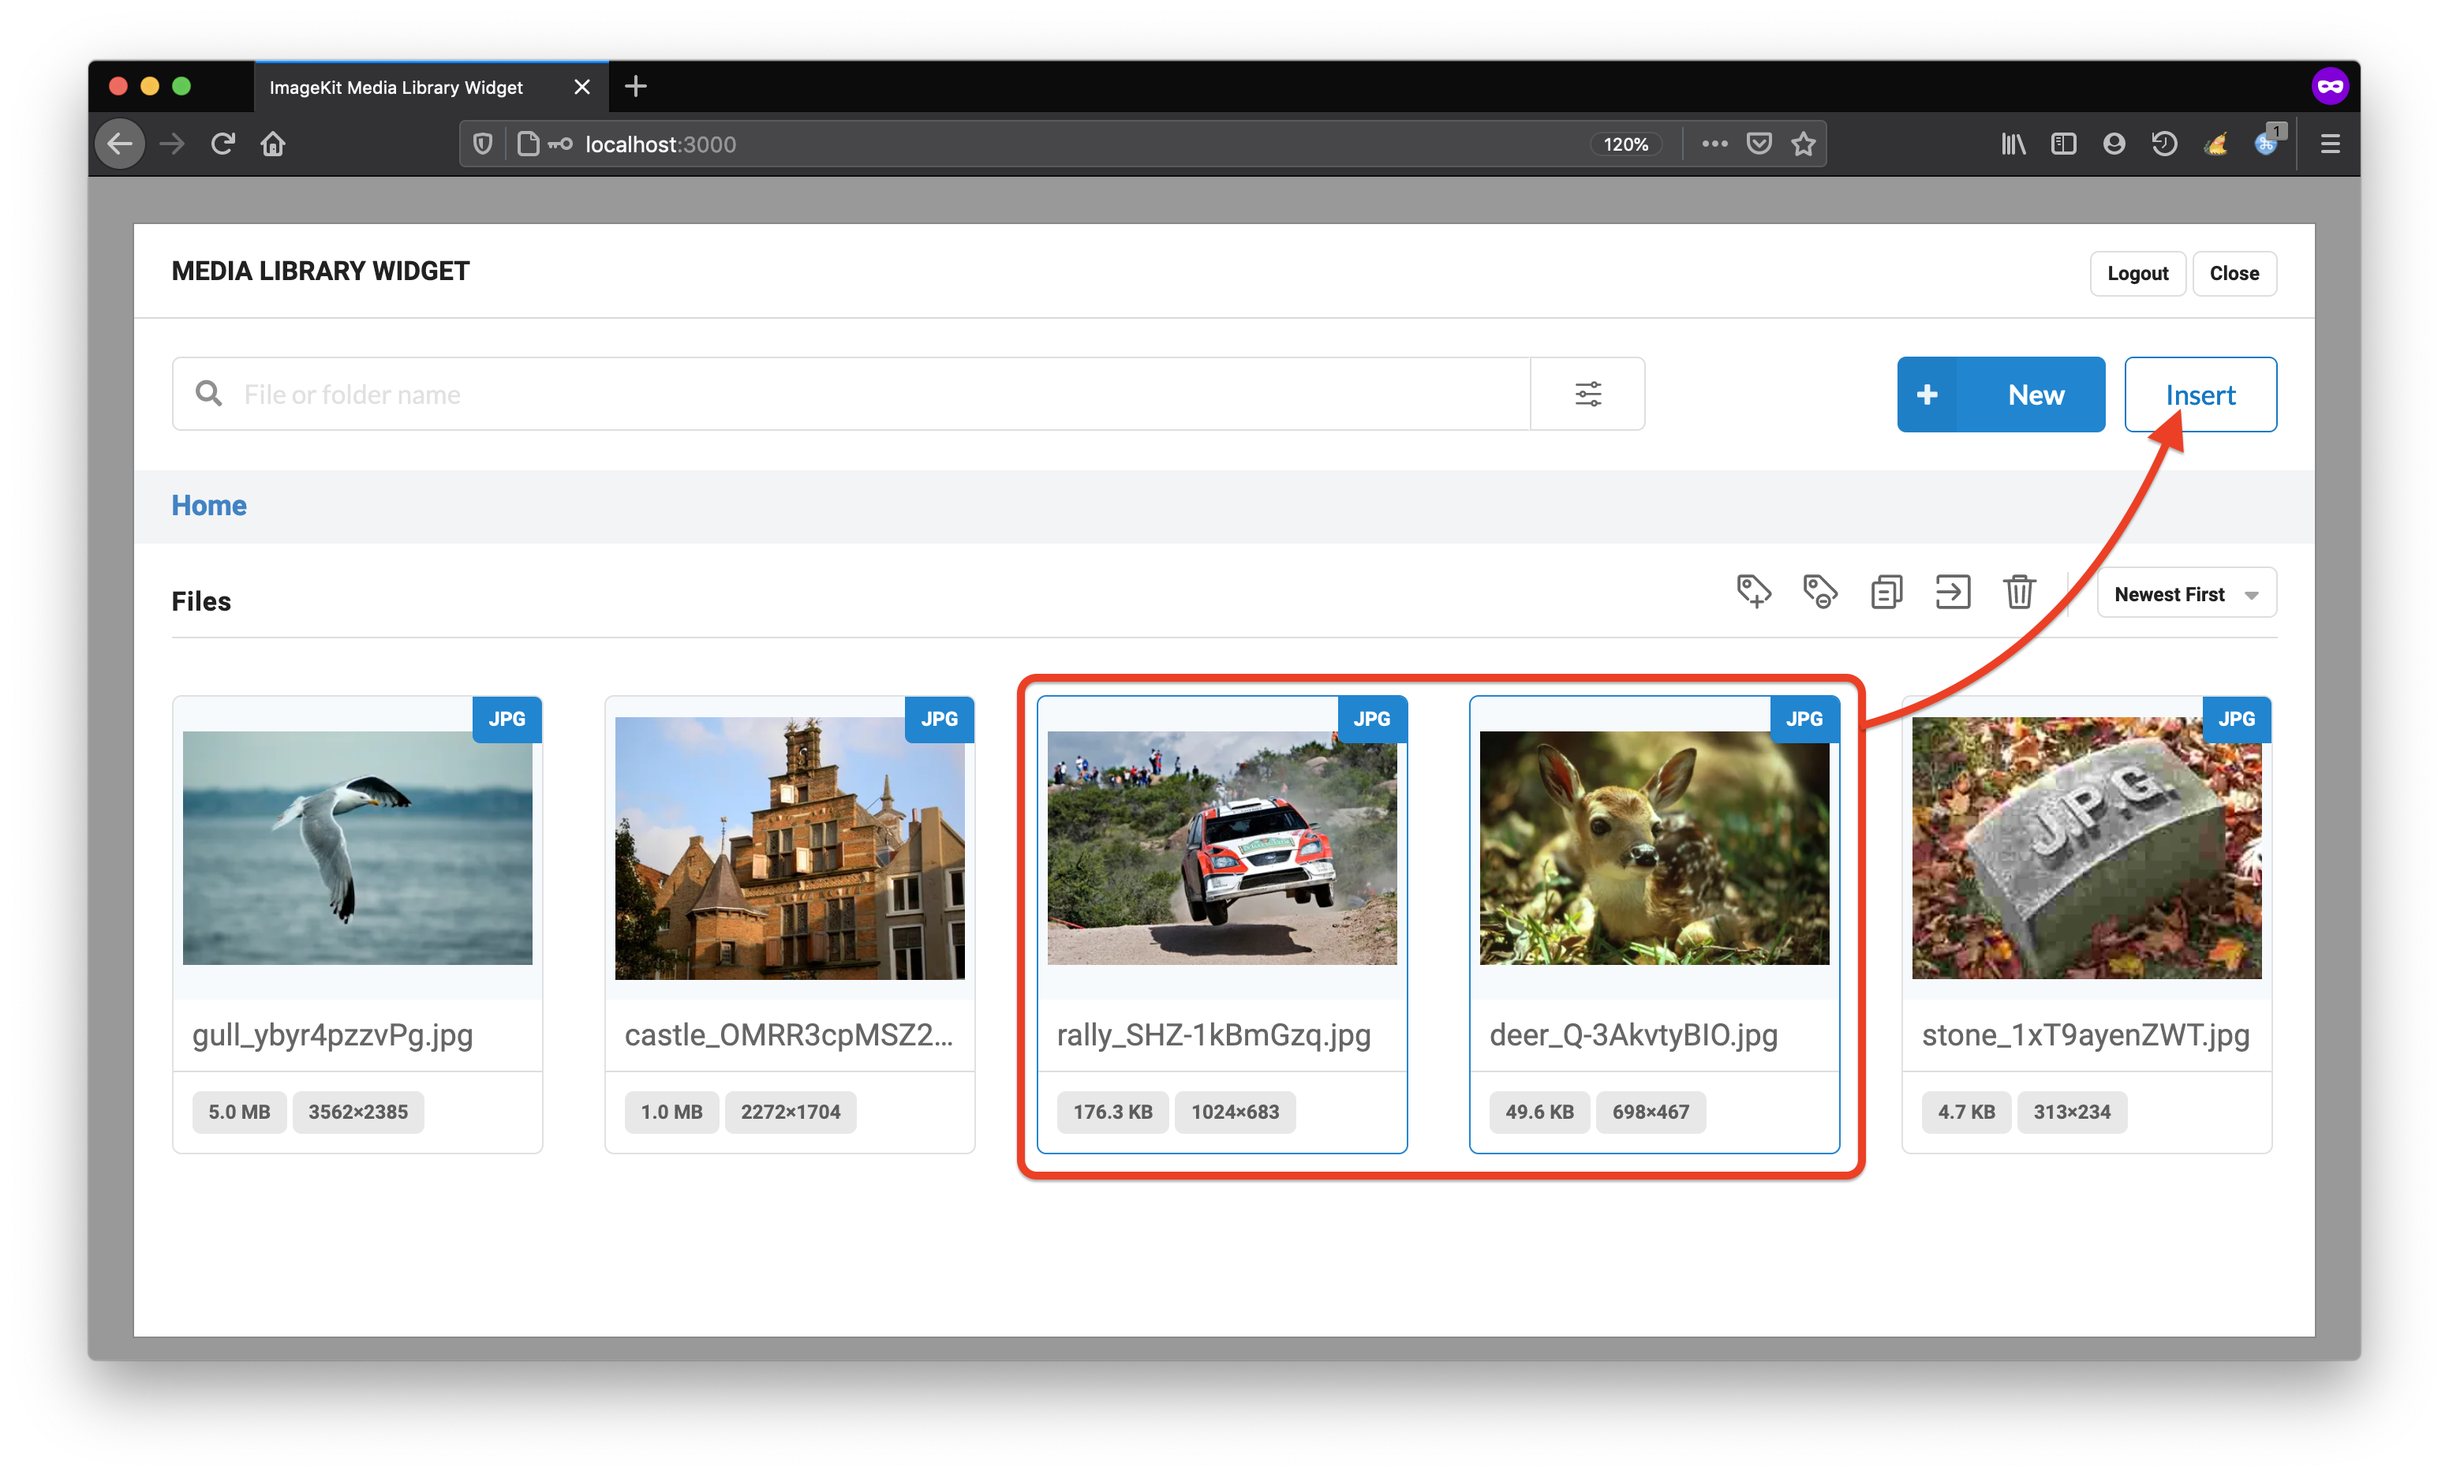
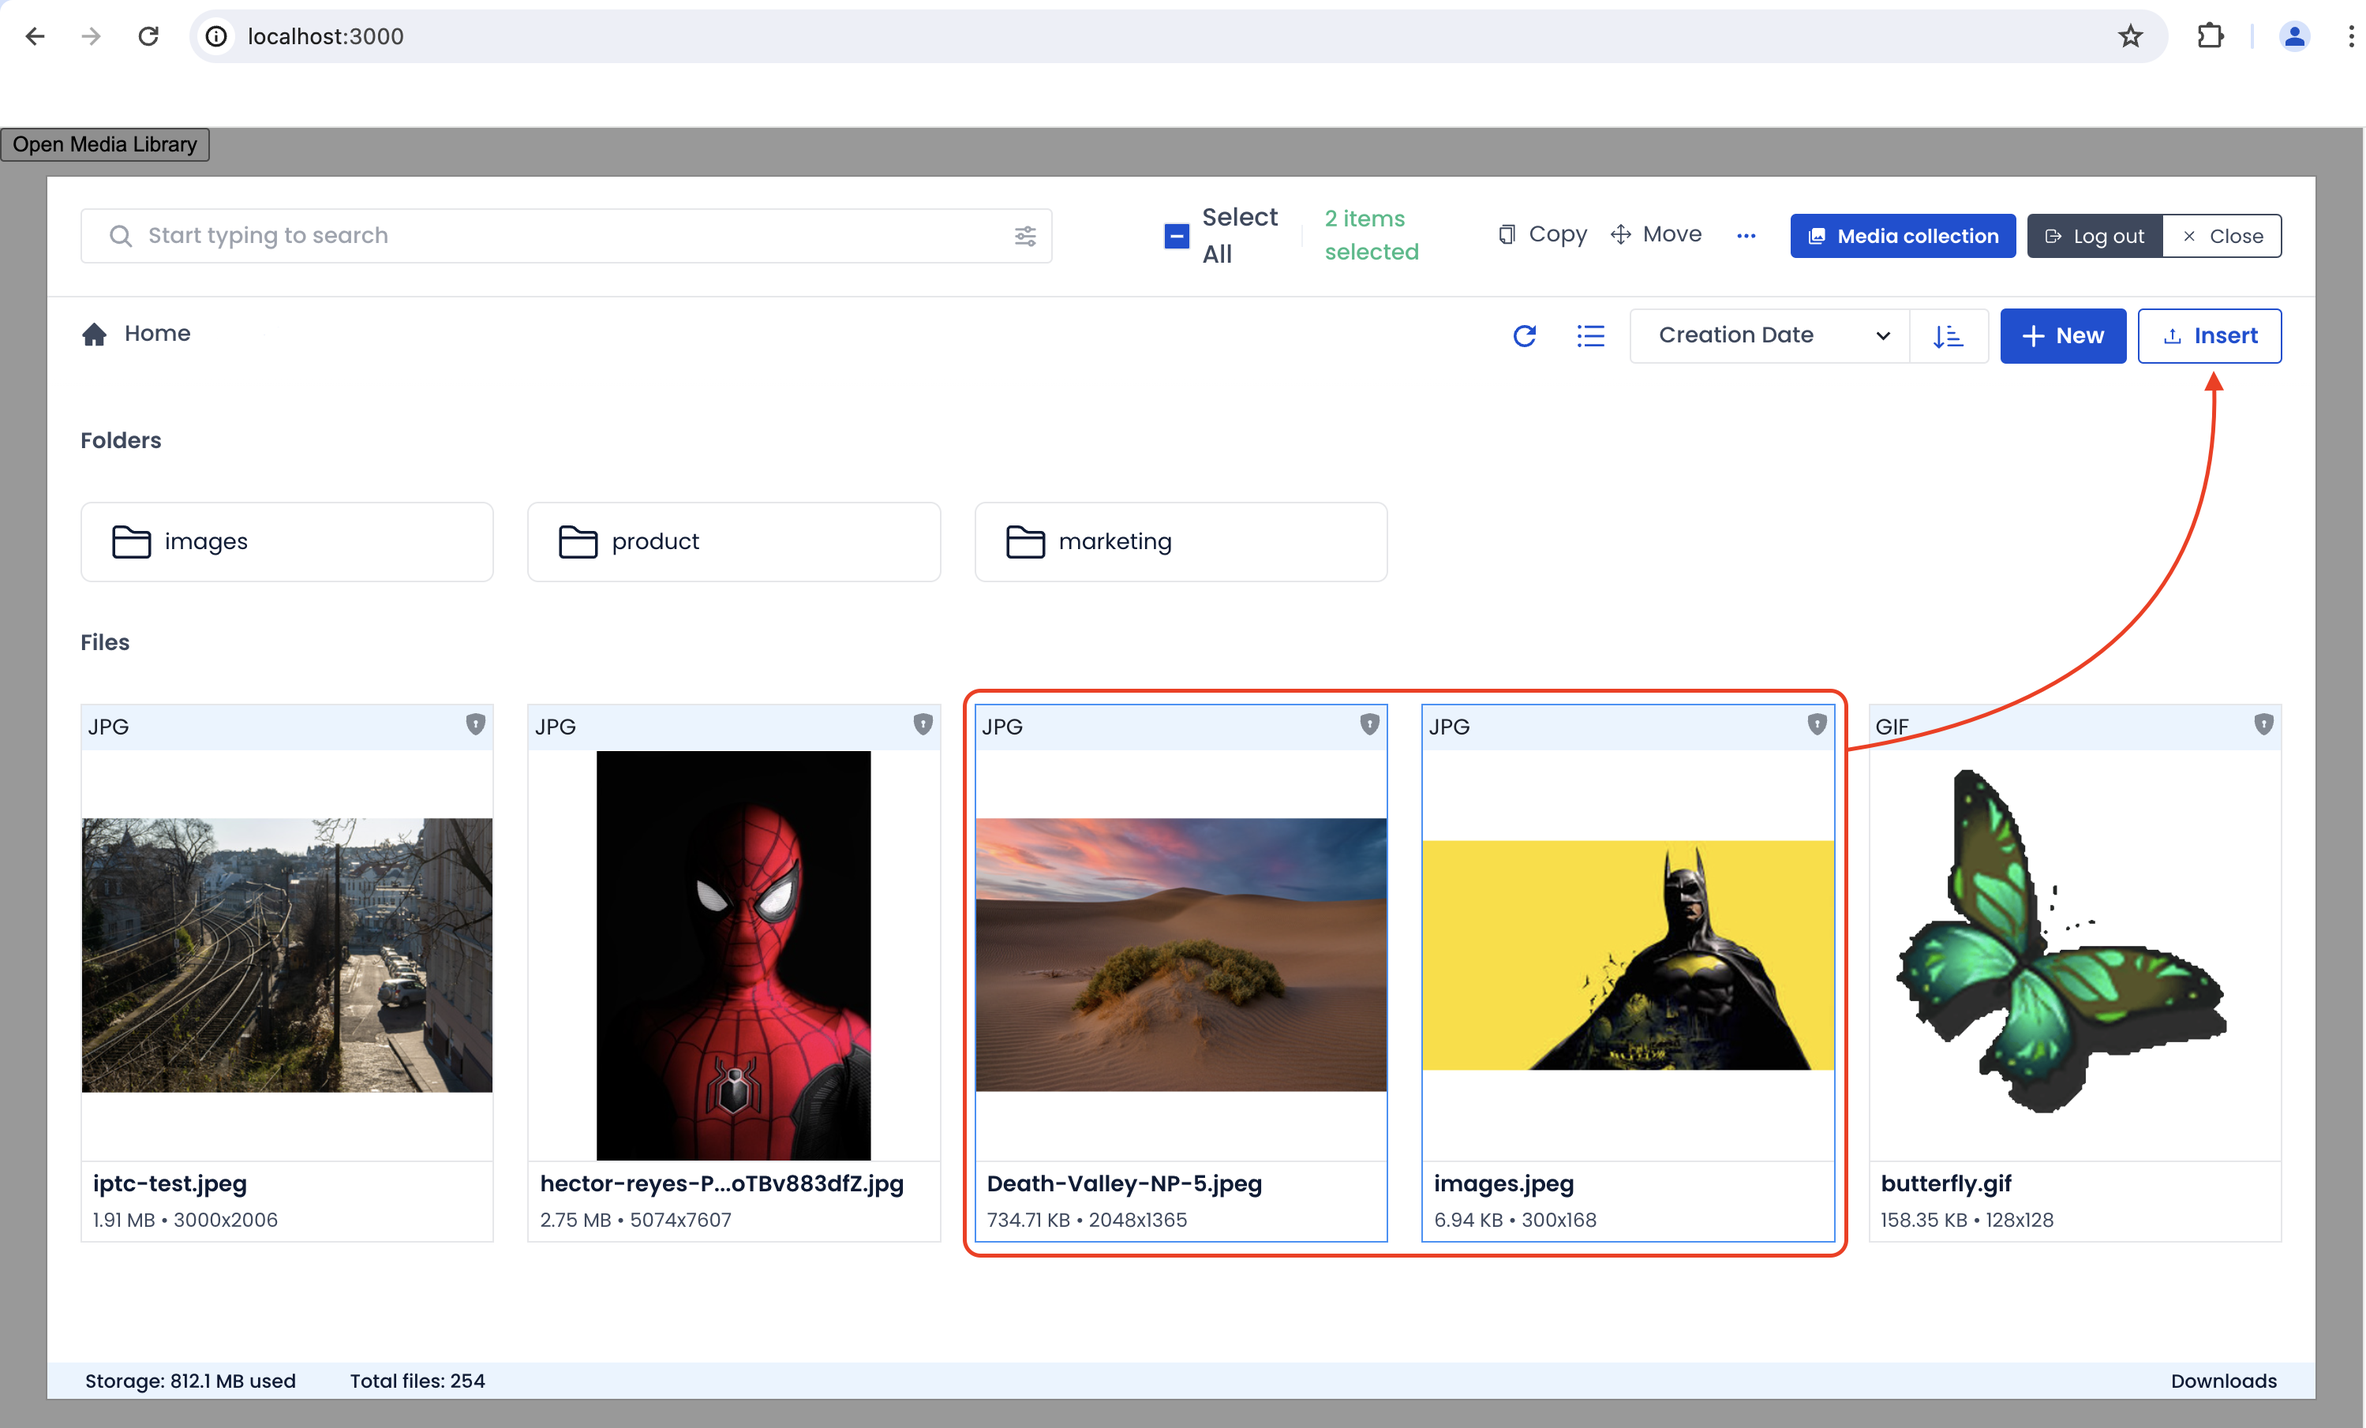
updated images

diff --git a/sample-projects/embeddable-media-library-widget/README.md b/sample-projects/embeddable-media-library-widget/README.md
@@ -10,9 +10,7 @@ The [media library widget](https://github.com/imagekit-developer/embeddable-medi
 
 Integrating the media library widget is straightforward as you will discover in this document.
 
-We have some ready-made sample integrations with the following applications.
-
-* **[**CKEditor integration**](ckeditor5-plugin.md)**
+You can also see the live hosted demo on [codesandbox.io](). Tweak parameters to understand the different options.
 
 ## Media library widget plugin features
 
@@ -24,8 +22,10 @@ The JavaScript-based plugin provides a way to seamlessly access your [ImageKit M
 * Search and insert images directly into your CMS from your ImageKit Media Library.
 * Configure UI view options, such as inline or modal-based Media Library panel.
 * Supply a custom container class so that you can customize the styling to match your application theme.
+* Open the Media Library directly to a specified state, such as opening to a specific folder, or opening a specific asset.
+* Allowing single asset insertion or limiting the maximum number of assets that can be inserted via the plugin.
 
-![](../../.gitbook/assets/01-mlw-intro.png)
+![](../../.gitbook/assets/15-mlw-home.png)
 
 ## **How to integrate the plugin in your app**
 
@@ -94,15 +94,20 @@ The plugin accepts the following configuration options, including the mandatory 
 | ------------------ | ---------------------- | ---------------------------------------------------------------------------------------------------------------------------------------------------------------- | ----------------------------------------------------------------------------------------- |
 | `initialView`        | Object | Instructs the widget to open in specified initial state. See the table below to learn about its subfields. | None                                                                                      |
 | 
-| `multiple`        | Boolean | Whether to allow users to select multiple assets from the Media Library UI. | None                                                                                      |
+| `multiple`        | Boolean | Whether to allow users to select multiple assets during insertion via plugin. | None                                                                                      |
 | 
-| `maxFiles`        | Number | Max number of media assets that can be added during a single session. Only relevant when `multiple=true`.` | None                                                                                      |
+| `maxFiles`        | Number | Max number of media assets that can be inserted via plugin in a single operation. Only relevant when `multiple=true`. | None                                                                                      |
 | 
 
 `initialView` can only have one of the following properties:
+
+{% hint style="info" %}
+You cannot pass more than one property in `initialView`. For anything custom, use `searchQuery`.
+{% endhint %}
+
  Option             | Datatype               | Description                                                                                                                                                      | Default value                                                                             |
 | ------------------ | ---------------------- | ---------------------------------------------------------------------------------------------------------------------------------------------------------------- | ----------------------------------------------------------------------------------------- |
-| `searchQuery`        | String | Query string in a Lucene-like query language same as the  searchQuery parameter used in List and search files API. It will instructs the widget to open in search view with the  results filtered as per query passed. | None |
+| `searchQuery`        | String | Query string in a Lucene-like query language same as the `searchQuery` parameter used in [Search API](/api-reference/media-api/list-and-search-files.md#advanced-search-queries). It will instructs the widget to open in search view with the  results filtered as per query passed. | None |
 | `folderPath`        | String | Instructs the widget to open in specified folder. For e.g. `folderPath: '/some-folder'` | None |
 | `fileId`        | String | Instructs the widget to open in file detail view of the specified ID. For e.g. `fileId: 'some-id'` | None 
 | `collection`        | Object | <p>Instructs the widget to open in collections view.<br>Passing an empty object opens the collection view showing all collections, for example: `collection: {}`<br>Passing a collection ID opens the widget with a specific collection displayed, for example: `collection: { id: 'some-id' }`</p> | None|
@@ -110,6 +115,8 @@ The plugin accepts the following configuration options, including the mandatory 
 
 
 #### **Configuration options samples:**
+
+##### **Open Media library(ML) home**
 
 ```javascript
 const config = {
@@ -123,9 +130,12 @@ const config = {
   renderOpenButton: true  // false | true (default)
 };
 ```
+
+![](../../.gitbook/assets/15-mlw-home.png)
+
 ##### **Open ML at a specific path**
 
-The following config will open ML widget at path: `/folder/subfolder`.
+The following config will open ML widget at path: `/marketing/banner`.
 ```javascript
 const config = {
   container: '#container',   // the element in which the widget will be rendered
@@ -138,14 +148,41 @@ const config = {
   renderOpenButton: true  // false | true (default)
   mlSettings: {
     initialView: {
-      folderPath: '/folder/subfolder'
+      folderPath: '/marketing/banner'
     },
   }
 };
 ```
+
+![](../../.gitbook/assets/16-mlw-specific-folder.png)
+
+##### **Open specific file**
+
+The following config will open specific file detail page
+```javascript
+const config = {
+  container: '#container',   // the element in which the widget will be rendered
+  className: 'media-library-widget',
+  dimensions: {
+    height: '100%',
+    width: '100%',
+  },
+  view: 'modal',  // modal (default) | inline
+  renderOpenButton: true  // false | true (default)
+  mlSettings: {
+    initialView: {
+      fileId: "5fd874c040308546019f0500"
+    },
+  }
+};
+```
+
+![](../../.gitbook/assets/14-mlw-file-detail.png)
+
 ##### **Open certain type of files**
 
-Only open videos type files
+Only open `videos` type files
+
 ```javascript
 const config = {
   container: '#container',   // the element in which the widget will be rendered
@@ -163,9 +200,13 @@ const config = {
   }
 };
 ```
+
+![](../../.gitbook/assets/09-mlw-file-type.png)
+
 ##### **Custom search query**
 
-Opens in a search view with all the assets with name starting with `zoom`
+Opens in a search view with all the assets with name starting with `pexel`
+
 ```javascript
 const config = {
   container: '#container',   // the element in which the widget will be rendered
@@ -178,15 +219,18 @@ const config = {
   renderOpenButton: true  // false | true (default)
   mlSettings: {
     initialView: {
-      searchQuery: '(name : "zoom")'
+      searchQuery: '(name : "pexel")'
     },
   }
 };
 ```
 
+![](../../.gitbook/assets/10-mlw-custom-search.png)
+
 ##### **Open all collections**
 
-The following config will show view with all collections 
+The following config will show view with all collections
+
 ```javascript
 const config = {
   container: '#container',   // the element in which the widget will be rendered
@@ -203,6 +247,9 @@ const config = {
 };
 
 ```
+
+![](../../.gitbook/assets/13-mlw-all-collections.png)
+
 ##### **Open specific collection**
 
 The following config will open collection with specified ID
@@ -218,11 +265,13 @@ const config = {
   renderOpenButton: true  // false | true (default)
   mlSettings: {
       collection: {
-        id: "<collection-id>"
+        id: "5fd874c040308546019f0500"
       }
   }
 };
 ```
+![](../../.gitbook/assets/12-mlw-collection.png)
+
 ##### **Allow single file selection**
 
 The following config will allow user to select only single asset
@@ -241,6 +290,30 @@ const config = {
   }
 };
 ```
+
+![](../../.gitbook/assets/11-mlw-single-selection.png)
+
+##### **Specify max number of files to be selected**
+
+The following config will allow user to select only single asset
+```javascript
+const config = {
+  container: '#container',   // the element in which the widget will be rendered
+  className: 'media-library-widget',
+  dimensions: {
+    height: '100%',
+    width: '100%',
+  },
+  view: 'modal',  // modal (default) | inline
+  renderOpenButton: true  // false | true (default)
+  mlSettings: {
+    multiple: true,
+    maxFiles: 3
+  }
+};
+```
+
+![](../../.gitbook/assets/08-mlw-max-selection.png)
 
 #### Callback function and payload
 
@@ -290,7 +363,7 @@ Login to ImageKit with your email and password.
 
 Upon logging in successfully, you should automatically be routed to the Media Library view.
 
-![Media Library Widget panel in modal popup](../../.gitbook/assets/04-mlw-media-lib.png)
+![Media Library Widget panel in modal popup](![](../../.gitbook/assets/15-mlw-home.png))
 
 ### 4. Insert images from the Media Library via the plugin
 
